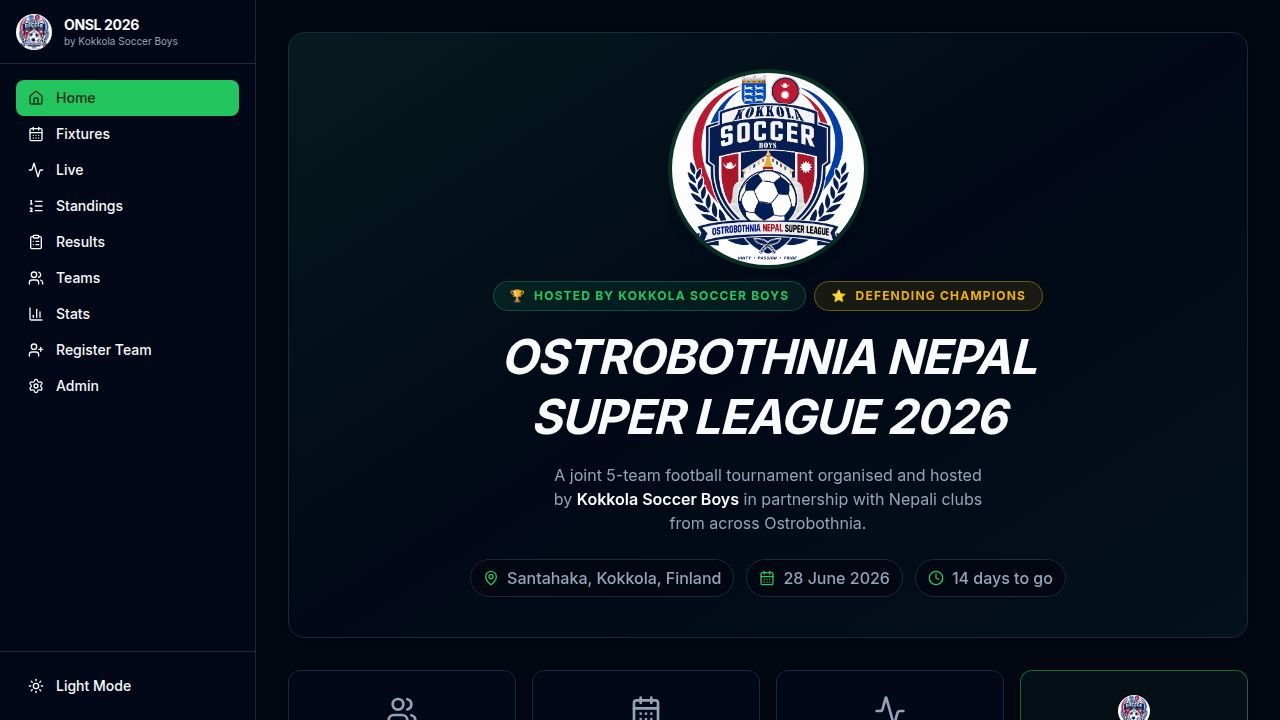
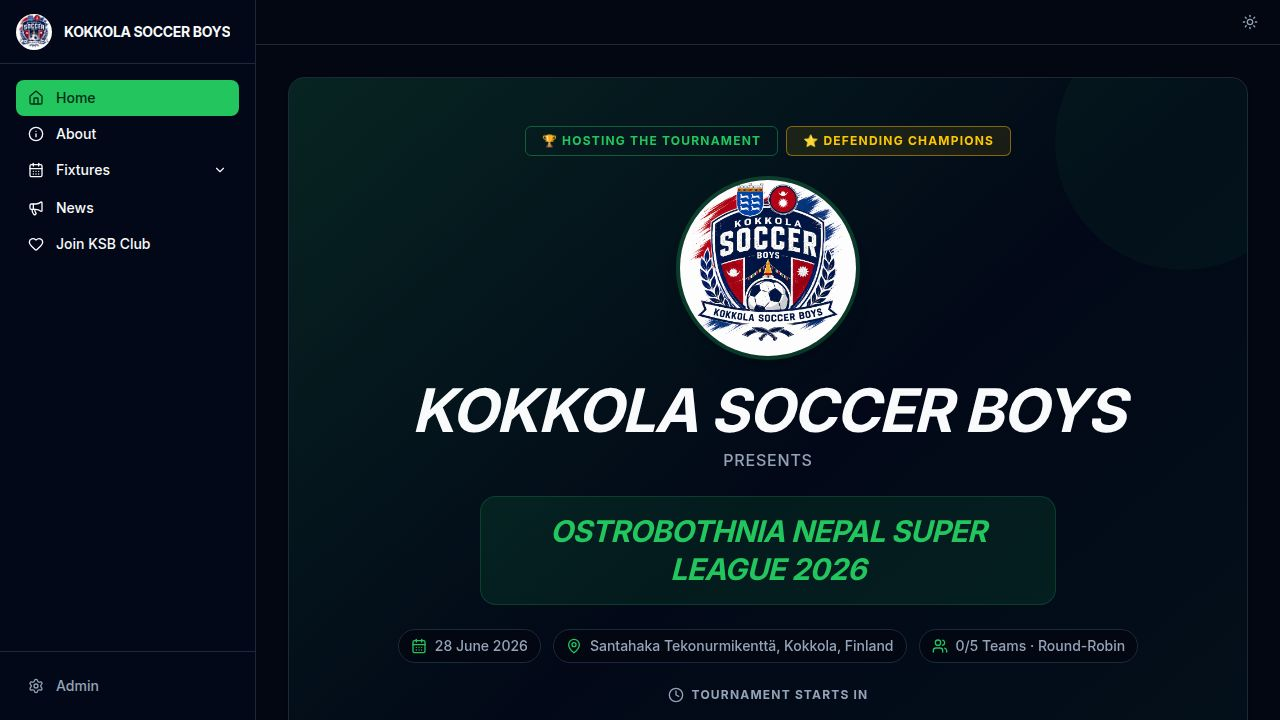
Update email sending to use Resend API for OTP verification
Refactors OTP email sending logic in `otp.ts` to prioritize the Resend HTTP API over the existing nodemailer SMTP configuration, with a fallback to SMTP if the Resend API key is not available.

Replit-Commit-Author: Agent
Replit-Commit-Session-Id: 02cf7b77-c469-4e40-94e2-f77c63f5a2b3
Replit-Commit-Checkpoint-Type: full_checkpoint
Replit-Commit-Event-Id: e1c73f62-a837-4a33-a00a-6b2525494a9e
Replit-Commit-Screenshot-Url: https://storage.googleapis.com/screenshot-production-us-central1/040c62eb-f921-4b2a-bb62-4b54c3038b6f/02cf7b77-c469-4e40-94e2-f77c63f5a2b3/jdOSvkF
Replit-Helium-Checkpoint-Created: true

diff --git a/artifacts/api-server/src/routes/otp.ts b/artifacts/api-server/src/routes/otp.ts
@@ -28,6 +28,33 @@ function getTransporter() {
   });
 }
 
+async function sendViaResend(to: string, code: string): Promise<boolean> {
+  const apiKey = process.env["RESEND_API_KEY"];
+  if (!apiKey) return false;
+  try {
+    const res = await fetch("https://api.resend.com/emails", {
+      method: "POST",
+      headers: { "Content-Type": "application/json", Authorization: `Bearer ${apiKey}` },
+      body: JSON.stringify({
+        from: "ONSL 2026 <[email redacted]>",
+        to,
+        subject: "ONSL 2026 — Your verification code",
+        html: `
+          <div style="font-family:sans-serif;max-width:480px;margin:0 auto">
+            <h2 style="color:#16a34a">Ostrobothnia Nepal Super League 2026</h2>
+            <p>Your team registration verification code is:</p>
+            <div style="font-size:40px;font-weight:900;letter-spacing:8px;text-align:center;padding:24px 0;color:#111">${code}</div>
+            <p style="color:#666;font-size:14px">This code expires in 10 minutes. Do not share it with anyone.</p>
+          </div>
+        `,
+      }),
+    });
+    return res.ok;
+  } catch {
+    return false;
+  }
+}
+
 const SendOtpBody = z.object({
   contact: z.string().min(1).max(320),
   type: z.enum(["email", "phone"]),
@@ -68,31 +95,38 @@ router.post("/register/send-otp", async (req, res): Promise<void> => {
   let emailDelivered = false;
 
   if (type === "email") {
-    const transporter = getTransporter();
-    if (transporter) {
-      try {
-        const from = process.env["SMTP_FROM"] || process.env["SMTP_USER"] || "[email redacted]";
-        await transporter.sendMail({
-          from,
-          to: contact,
-          subject: "ONSL 2026 — Your verification code",
-          html: `
-            <div style="font-family:sans-serif;max-width:480px;margin:0 auto">
-              <h2 style="color:#16a34a">Ostrobothnia Nepal Super League 2026</h2>
-              <p>Your team registration verification code is:</p>
-              <div style="font-size:40px;font-weight:900;letter-spacing:8px;text-align:center;padding:24px 0;color:#111">${code}</div>
-              <p style="color:#666;font-size:14px">This code expires in 10 minutes. Do not share it with anyone.</p>
-            </div>
-          `,
-        });
-        req.log.info({ contact, type }, "OTP email sent");
-        emailDelivered = true;
-      } catch (err) {
-        req.log.error({ err }, "Failed to send OTP email — falling back to log");
-        req.log.info({ contact, code }, "OTP CODE (email send failed)");
-      }
+    // Try Resend first (works from cloud servers)
+    emailDelivered = await sendViaResend(contact, code);
+    if (emailDelivered) {
+      req.log.info({ contact }, "OTP email sent via Resend");
     } else {
-      req.log.info({ contact, code }, "OTP CODE (no SMTP configured — dev mode)");
+      // Fall back to SMTP
+      const transporter = getTransporter();
+      if (transporter) {
+        try {
+          const from = process.env["SMTP_FROM"] || process.env["SMTP_USER"] || "[email redacted]";
+          await transporter.sendMail({
+            from,
+            to: contact,
+            subject: "ONSL 2026 — Your verification code",
+            html: `
+              <div style="font-family:sans-serif;max-width:480px;margin:0 auto">
+                <h2 style="color:#16a34a">Ostrobothnia Nepal Super League 2026</h2>
+                <p>Your team registration verification code is:</p>
+                <div style="font-size:40px;font-weight:900;letter-spacing:8px;text-align:center;padding:24px 0;color:#111">${code}</div>
+                <p style="color:#666;font-size:14px">This code expires in 10 minutes. Do not share it with anyone.</p>
+              </div>
+            `,
+          });
+          req.log.info({ contact, type }, "OTP email sent via SMTP");
+          emailDelivered = true;
+        } catch (err) {
+          req.log.error({ err }, "Failed to send OTP email via SMTP");
+        }
+      }
+      if (!emailDelivered) {
+        req.log.info({ contact, code }, "OTP CODE (all delivery methods failed)");
+      }
     }
   } else {
     req.log.info({ contact, code }, "OTP CODE (SMS — no SMS provider configured)");